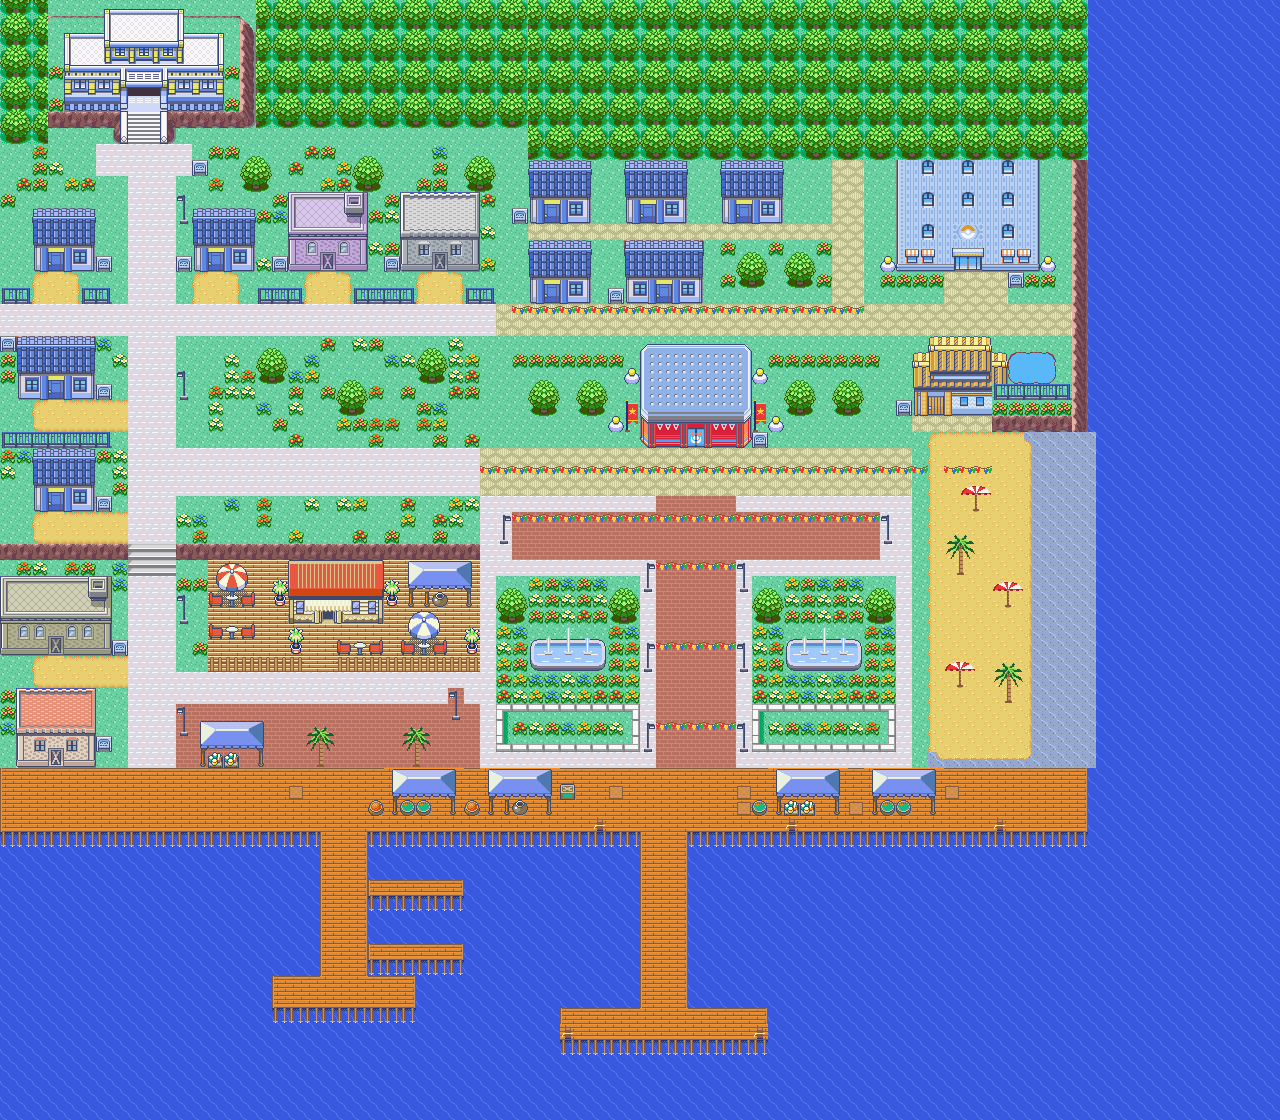
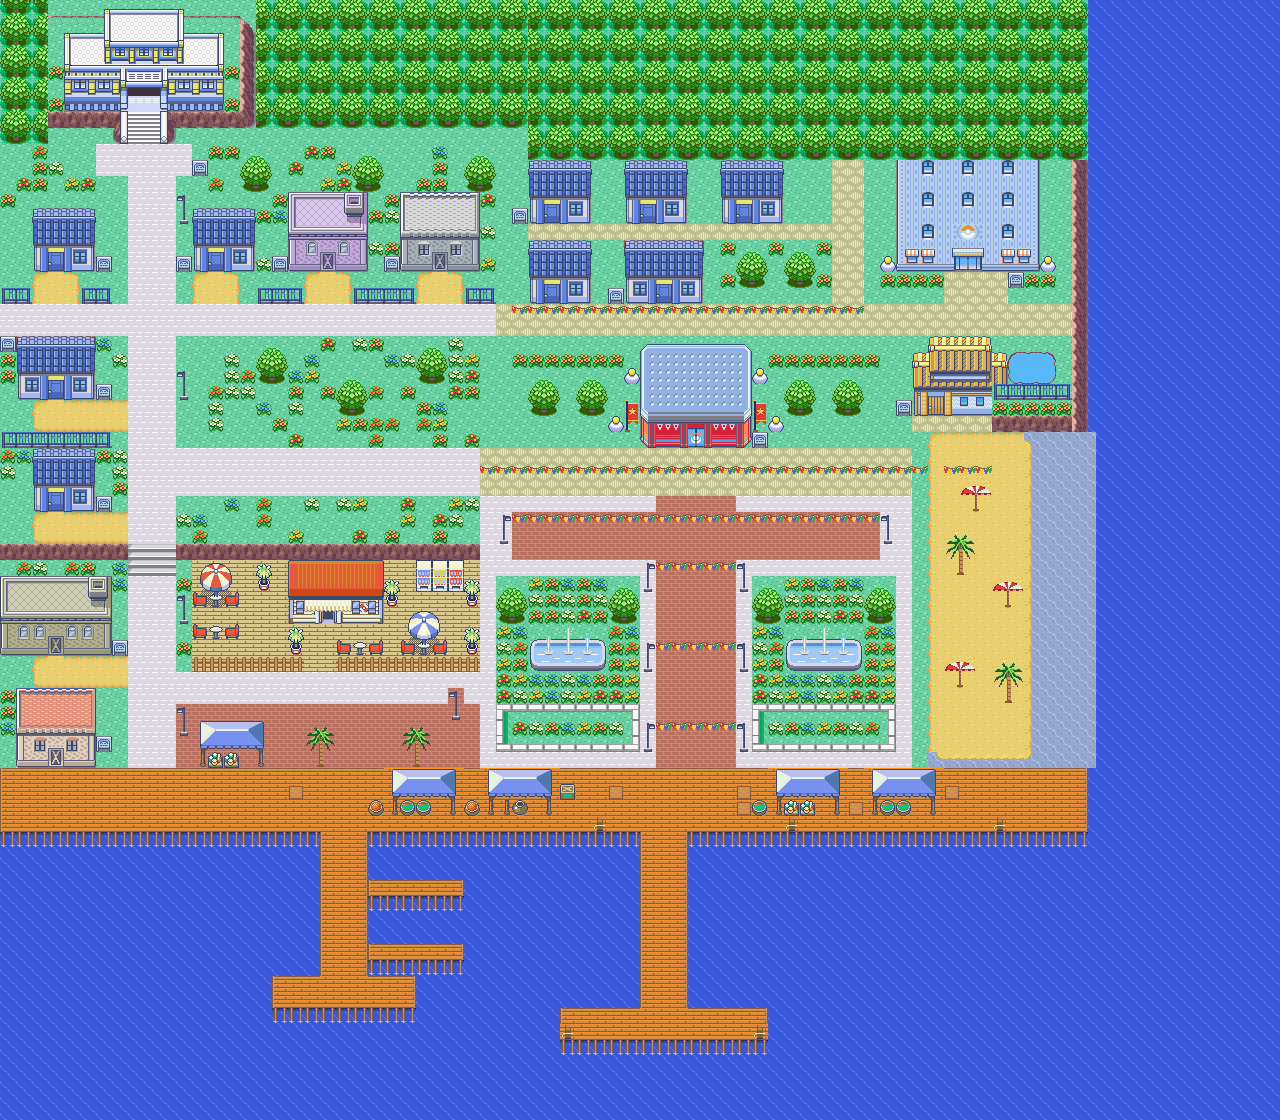
Café: wider soft-contrast deck, drink vending machines, café facade and darker roof
- Terrace one column wider (up to the street lamp), light beach-deck planks with soft joints.
- Juice stall replaced by three Lilycove rooftop vending machines (water, lemonade, soda)
  using the original buy script.
- Café facade: flower boxes replaced by wooden siding, white pillars, lifebuoy; roof darker.

Claude-Session: https://claude.ai/code/session_015nAeBdQj1XXGE9TrWVaT6H

Changed region(s): [[0.125, 0.5, 0.375, 0.5938]]

diff --git a/dev_scripts/lilycove_redesign/layout.py b/dev_scripts/lilycove_redesign/layout.py
@@ -223,17 +223,19 @@ garden(-5,23,14,26,32)                                                       # u
 ledge(-5,14,26)                                                             # the step continues east of the street
 # --- seaside café (replaces the Pokémon Center and the harbor building) on the lower level
 fill(-5,27,14,40,GRASS)
-for y in range(27,34):                                                      # light wooden terrace x -3..13, rows 27..33
-    for x in range(-3,14): put(x,y,('ART',('terrace',0,0,None,'water'),0,3))
+for y in range(27,34):                                                      # light wooden terrace x -4..13, rows 27..33
+    for x in range(-4,14): put(x,y,('ART',('terrace',0,0,None,'water'),0,3))
 art('cafe',2,27,bottom='terrace')                                           # Café Litoral, door (4,30)
-art('tent_pots',9,27,bottom='terrace',walk_rows=2)                          # juice kiosk
-art('umbrella_set_red',-3,27,bottom='terrace',walk_rows=1)                  # umbrella + table + two chairs
+for k,n in enumerate(('vending_water','vending_lemonade','vending_soda')):  # drink machines (row 29 in front is free)
+    art(n,10+k,27,bottom='terrace')
+art('umbrella_set_red',-4,27,bottom='terrace',walk_rows=1)                  # umbrella + table + two chairs
 art('umbrella_set_blue',9,30,bottom='terrace',walk_rows=1)
-art('table_set',-3,31,bottom='terrace'); art('table_set',5,32,bottom='terrace')   # small modern tables
-for (px_,py_) in ((1,28),(8,28),(2,31),(13,31)): art('potted_palm',px_,py_,bottom='terrace',walk_rows=1)
-for x in range(-3,14):                                                      # low brown fence, entrance at x 3..4
+art('table_set',-4,31,bottom='terrace'); art('table_set',5,32,bottom='terrace')   # small modern tables
+for (px_,py_) in ((0,27),(8,28),(2,31),(13,28),(13,31)): art('potted_palm',px_,py_,bottom='terrace',walk_rows=1)
+for x in range(-4,14):                                                      # low brown fence, entrance at x 3..4
     if x not in (3,4): art('fence_wood',x,33,bottom='terrace')
-for (fx,fy) in ((-5,28),(-4,28),(-4,32)): put(fx,fy,FLOWERS)
+put(-5,28,FLOWERS); put(-5,32,FLOWERS)
+
 palm(-5,31,'grass') if False else None
 paving(-5,34,14,36)                                                         # promenade: street -> plaza
 brickfill(-5,36,14,40)                                                      # brick by the boardwalk

diff --git a/dev_scripts/lilycove_redesign/authentic_art.py b/dev_scripts/lilycove_redesign/authentic_art.py
@@ -171,4 +171,39 @@ def seaside_cafe():
             if a and g > r + 15 and g >= b:          # green walls / boxes -> cream and wood
                 lum = (r + g + b) // 3
                 p[x, y] = ((238, 222, 196) if lum > 170 else (214, 184, 150) if lum > 125 else (156, 120, 92)) + (255,)
+    for y in range(im.height):                     # olive door pillars -> white
+        for x in range(im.width):
+            if p[x, y][3] and p[x, y][:3] in ((189, 189, 131), (180, 180, 148), (205, 205, 164), (238, 238, 213)):
+                p[x, y] = ((232, 240, 224) if sum(p[x, y][:3]) > 520 else (205, 213, 230)) + (255,)
+    for y in range(0, 37):                         # roof slightly darker
+        for x in range(im.width):
+            if p[x, y][3] and p[x, y][:3] != (65, 74, 106):
+                r, g, b, a = p[x, y]; p[x, y] = (int(r * .88), int(g * .88), int(b * .88), 255)
+    # flower boxes under the windows -> plain wooden siding (a café, not a flower shop)
+    for (x0, x1) in ((5, 28), (55, 92)):
+        for y in range(55, 63):
+            for x in range(x0, x1):
+                if p[x, y][3] and p[x, y][:3] != (65, 74, 106):
+                    p[x, y] = ((156, 120, 92) if y % 4 == 2 else (214, 184, 150) if y % 4 == 1 else (238, 222, 196)) + (255,)
+    # lifebuoy on the wall between the right windows
+    cx, cy = 76, 48
+    for y in range(cy - 4, cy + 4):
+        for x in range(cx - 4, cx + 4):
+            d = (x + .5 - cx) ** 2 + (y + .5 - cy) ** 2
+            if 4.5 <= d <= 16.5:
+                ang = (x + .5 - cx >= 0) == (y + .5 - cy >= 0)
+                p[x, y] = ((232, 80, 72) if ang else (248, 248, 248)) + (255,)
+            elif 16.5 < d <= 21 or 2.5 <= d < 4.5:
+                p[x, y] = (65, 74, 106, 255)
     return im
+
+def vending_machine():
+    """Lilycove Dept. Store rooftop vending machine (1x2), background railing removed."""
+    mimg = render.build('primary/building', 'secondary/shop')[0]
+    out = Image.new('RGBA', (16, 32), (0, 0, 0, 0)); o = out.load()
+    for k, (m, bg) in enumerate(((0x26f, 0x281), (0x277, 0x253))):
+        t = mimg(m).load(); b = mimg(bg).load()
+        for y in range(16):
+            for x in range(16):
+                if t[x, y] != b[x, y]: o[x, k * 16 + y] = t[x, y] + (255,)
+    return out

diff --git a/dev_scripts/lilycove_redesign/port_art.py b/dev_scripts/lilycove_redesign/port_art.py
@@ -161,8 +161,15 @@ for _n, _mk in (('table_set', _table_set), ('umbrella_set_red', lambda: _umbrell
     _CANVAS[_n] = _fixed(_mk(), 11); PAL_OF[_n] = 11; ART[_n] = (lambda n=_n: _CANVAS[n])
 
 # lighter terrace planks: the dock planks without the saturated orange highlight (OR -> cream)
-_CANVAS['terrace'] = [[2 if v == 4 else v for v in row] for row in _F.dock()]
-PAL_OF['terrace'] = 6; ART['terrace'] = lambda: _CANVAS['terrace']; FLOOR.add('terrace')
+# light beach-deck planks with soft joints, in the market palette 11 (beige body, brown joints)
+_CANVAS['terrace'] = [[{4: 3, 14: 3, 15: 12}.get(v, v) for v in row] for row in _F.dock()]
+PAL_OF['terrace'] = 11; ART['terrace'] = lambda: _CANVAS['terrace']; FLOOR.add('terrace')
 PALETTES[6] = list(_F.PAL6)        # festival palette (greens for the potted palms); only used for mapping,
 _CANVAS['potted_palm'] = _fixed(_palm_pot(), 6); PAL_OF['potted_palm'] = 6; ART['potted_palm'] = lambda: _CANVAS['potted_palm']
 del PALETTES[6]                    # slot 6 itself is written by festival_tiles.py (shared with Route 121)
+
+# drink vending machines (Lilycove Dept. Store rooftop): water (teal), lemonade (yellow), soda (red)
+_vm = _fixed(A.vending_machine(), 11)
+for _n, _to in (('vending_water', 8), ('vending_lemonade', 4), ('vending_soda', 6)):   # bottles = index 10
+    _CANVAS[_n] = [[_to if v == 10 else v for v in row] for row in _vm]; PAL_OF[_n] = 11
+    ART[_n] = (lambda n=_n: _CANVAS[n])

diff --git a/docs/lilycove/README.md b/docs/lilycove/README.md
@@ -121,20 +121,22 @@ Rota 121 e ao Safari. Tiles iguais ou espelhados são reaproveitados (espaço li
 
 ## Café Litoral (bairro 1, beira do calçadão)
 Substitui o Centro Pokémon e o prédio do Porto. Montado com peças do próprio Emerald:
-* **Café**: a floricultura da Rota 104 (telhado laranja, toldo listrado), com paredes
-  creme e floreiras de madeira no lugar do verde.
-* **Terraço de madeira clara** (as tábuas do porto sem o realce laranja saturado).
+* **Café**: a floricultura da Rota 104 (telhado laranja levemente escurecido, toldo
+  listrado), com paredes creme, revestimento de madeira no lugar das floreiras, pilares
+  claros e uma boia salva-vidas na parede.
+* **Terraço de madeira clara** de deck de praia (bege com juntas marrons suaves), até o poste da rua.
 * **Mesinhas redondas modernas** (desenhadas no estilo do jogo) com **duas cadeiras
   vermelhas do lounge da Battle Frontier**, e conjuntos de **guarda-sol da praia da Rota
   109** sobre mesa e cadeiras (o mastro entra no centro da mesa; sombra pontilhada).
 * **Palmeirinhas em vaso** (também do lounge da Battle Frontier) junto ao café, ao quiosque
   e à entrada.
-* **Quiosque de sucos** (barraca do mercado), **cerca baixa marrom** com entrada alinhada à
+* **Máquinas de bebida** do terraço da Loja de Departamentos (água, limonada e soda, cada
+  uma com garrafas de uma cor), com o script original de compra; **cerca baixa marrom** com entrada alinhada à
   porta, calçada ligando a rua à praça e calçadão de tijolos com barraca de flores e
   palmeiras.
 * Café, móveis e guarda-sóis na paleta 11 do mercado (o índice 6, que estava livre, virou
-  um vermelho-coral); vasos, piso e cerca na paleta 6 do festival.
-* Placas: letreiro do café, aviso na porta e cardápio do quiosque.
+  um vermelho-coral); piso também na 11; vasos e cerca na paleta 6 do festival.
+* Placas: letreiro do café e aviso na porta.
 * O Centro Pokémon e o Porto saíram do mapa. Os warps deles ficam na calçada, para
   que o renascimento depois de desmaiar e o Fly continuem funcionando, até o Centro
   ganhar um lugar novo.
